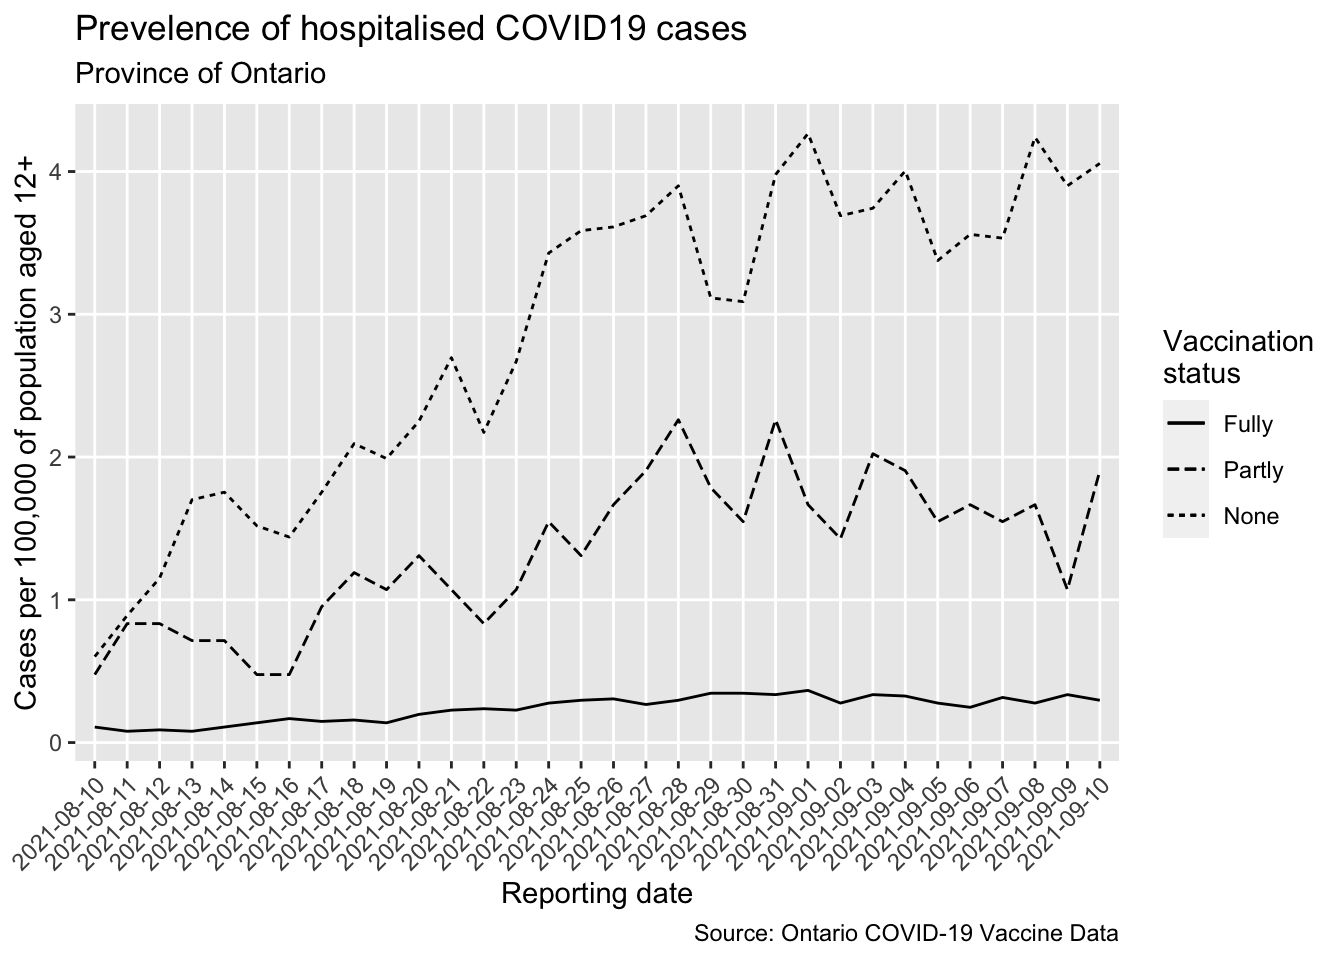
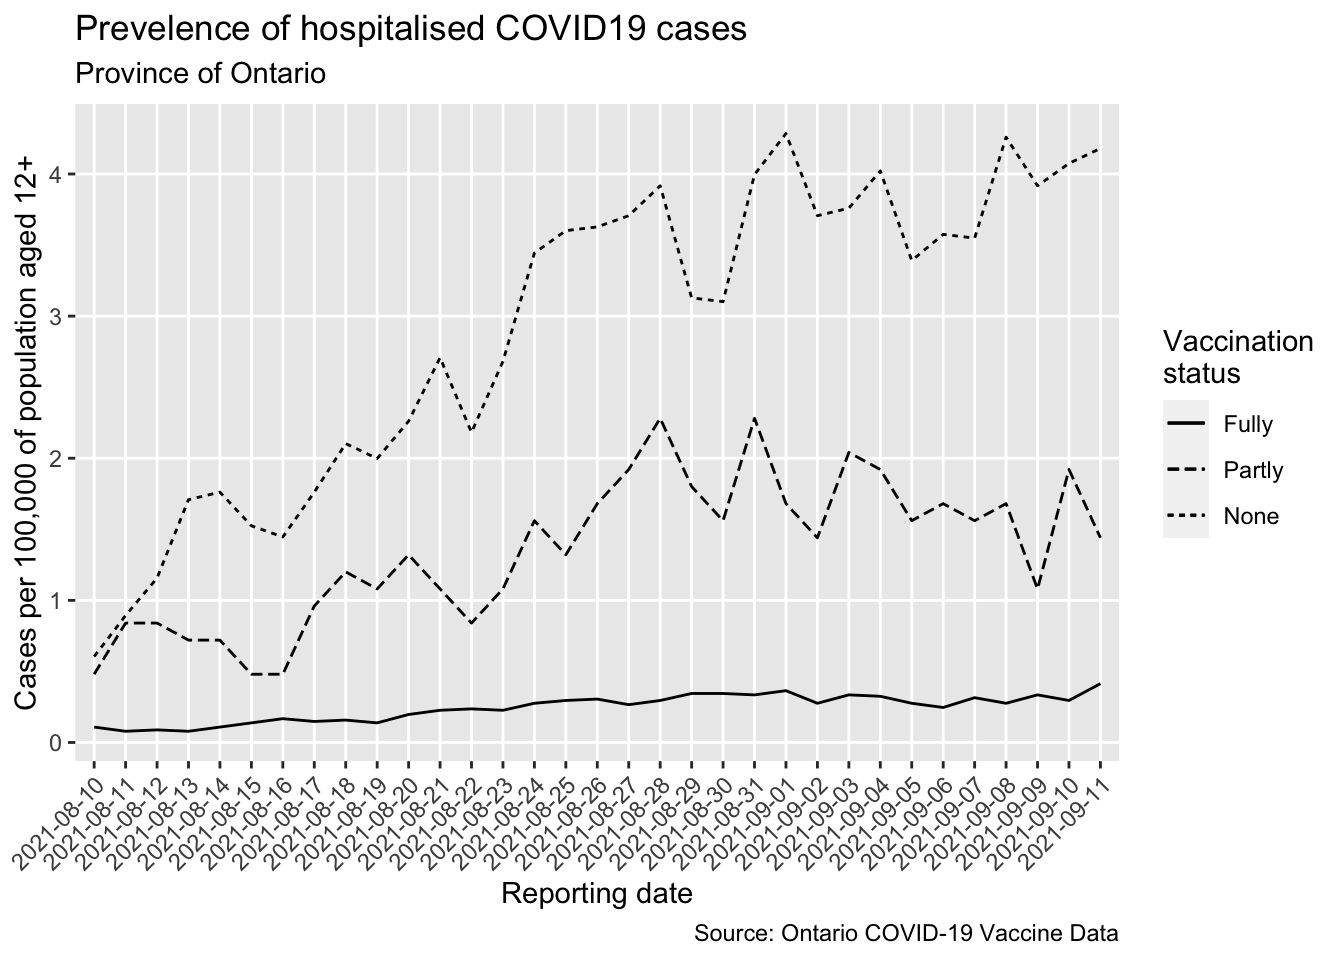
2021-09-11 update

Changed region(s): [[0.0, 0.125, 0.8438, 0.9062], [0.0312, 0.3125, 0.0625, 0.3438], [0.0312, 0.1562, 0.0625, 0.1875]]

diff --git a/docs/index.html b/docs/index.html
@@ -10,7 +10,7 @@
 
 
 
-<meta name="date" content="2021-09-10" />
+<meta name="date" content="2021-09-11" />
 
 <title>Ontario COVID-19 vaccination progress</title>
 
@@ -190,7 +190,7 @@ summary {
 
 
 <h1 class="title toc-ignore">Ontario COVID-19 vaccination progress</h1>
-<h4 class="date">2021-09-10</h4>
+<h4 class="date">2021-09-11</h4>
 
 </div>
 
@@ -210,10 +210,10 @@ summary {
 </thead>
 <tbody>
 <tr class="odd">
-<td align="center">2021-09-10</td>
-<td align="center">10128949</td>
-<td align="center">840227</td>
-<td align="center">10969176</td>
+<td align="center">2021-09-11</td>
+<td align="center">10152637</td>
+<td align="center">833071</td>
+<td align="center">10985708</td>
 </tr>
 </tbody>
 </table>
@@ -244,9 +244,9 @@ summary {
 </thead>
 <tbody>
 <tr class="odd">
-<td align="center">2021-09-10</td>
-<td align="center">35844</td>
-<td align="center">21098125</td>
+<td align="center">2021-09-11</td>
+<td align="center">40220</td>
+<td align="center">21138345</td>
 </tr>
 </tbody>
 </table>

diff --git a/docs/ontario-covid-vaccinations.html b/docs/ontario-covid-vaccinations.html
@@ -207,10 +207,10 @@ summary {
 </thead>
 <tbody>
 <tr class="odd">
-<td align="center">2021-09-10</td>
-<td align="center">10128949</td>
-<td align="center">840227</td>
-<td align="center">10969176</td>
+<td align="center">2021-09-11</td>
+<td align="center">10152637</td>
+<td align="center">833071</td>
+<td align="center">10985708</td>
 </tr>
 </tbody>
 </table>
@@ -241,9 +241,9 @@ summary {
 </thead>
 <tbody>
 <tr class="odd">
-<td align="center">2021-09-10</td>
-<td align="center">35844</td>
-<td align="center">21098125</td>
+<td align="center">2021-09-11</td>
+<td align="center">40220</td>
+<td align="center">21138345</td>
 </tr>
 </tbody>
 </table>
